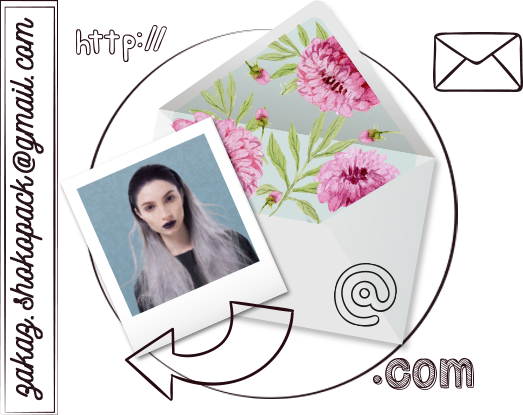
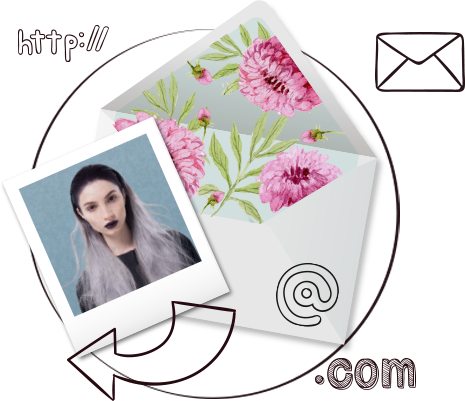
push Sale section

diff --git a/styles/_common.sass b/styles/_common.sass
@@ -84,7 +84,7 @@ body
 
 //Banner
 .content-block-1
-  background: url('../images/background_banner.jpg') no-repeat
+  background: url('../images/background_banner.jpg') no-repeat center
   background-size: cover
   padding-bottom: 64px
   +clearfix
@@ -196,7 +196,7 @@ body
 .content-block-2::before
   content: ''
   position: absolute
-  background: url(../images/advantages_before.png) no-repeat
+  background: url(../images/advantages_before.png) no-repeat center
   height: 64px
   width: 100%
   top: -64px
@@ -229,14 +229,14 @@ body
   &:before
     content: ''
     position: absolute
-    background: url(../images/shares_before.png) no-repeat
+    background: url(../images/shares_before.png) no-repeat center
     height: 40px
     width: 100%
     top: -40px
   &:after
     content: ''
     position: absolute
-    background: url(../images/shares_after.png) no-repeat
+    background: url(../images/shares_after.png) no-repeat center
     height: 83px
     width: 100%
   .main-title
@@ -344,6 +344,55 @@ body
   width: 380px
   margin: 0 auto
 //End How we do
+
+//Sale
+.content-block-5
+  background: #ff727c
+  position: relative
+  margin: 47px 0 100px
+  &::before
+    content: ''
+    position: absolute
+    background: url(../images/order_before.png) no-repeat center
+    height: 47px
+    width: 100%
+    top: -47px
+  &::after
+    content: ''
+    position: absolute
+    background: url(../images/order_after.png) no-repeat center
+    height: 100px
+    width: 100%
+    bottom: -100px
+.sale-block
+  flex: 1
+.sale-block-image
+  height: 420px
+  +flexbox
+  justify-content: center
+  align-items: flex-end
+  margin-bottom: 20px
+  position: relative
+  .sale-block-link_mail
+    display: block
+    text-align: center
+    width: 415px
+    height: 58px
+    background: url('../images/order_mail.png') no-repeat
+    transform: rotate(-90deg)
+    font-size: 36px
+    color: #261418
+    font-family: $font-nickainley
+    position: absolute
+    left: -175px
+    top: 200px
+.sale-block-text
+  text-align: center
+  font-size: 42px
+  color: #fff
+  width: 370px
+  margin: 0 auto
+//End Sale
 
 //Review
 .content-block-7

diff --git a/index.html b/index.html
@@ -166,7 +166,36 @@
     <!-- Section sale -->
     <section class="content-block content-block-5">
         <div class="main">
-
+            <p class="main-title">Как происходит заказ?</p>
+            <div class="flex-wrap">
+                <div class="sale-block">
+                    <div class="sale-block-image"><img src="images/order_img1.png" alt=""></div>
+                    <p class="sale-block-text">1. Подать заявку</p>
+                </div>
+                <div class="sale-block">
+                    <div class="sale-block-image"><img src="images/order_img2.png" alt=""></div>
+                    <p class="sale-block-text">2. Обсудить детали заказа с менеджером</p>
+                </div>
+            </div>
+            <div class="flex-wrap">
+                <div class="sale-block">
+                    <div class="sale-block-image">
+                        <img src="images/order_img3.png" alt="">
+                        <a href="mailto:zakaz.shokopack@gmail.com" class="sale-block-link_mail">zakaz.shokopack@gmail.com</a>
+                    </div>
+                    <p class="sale-block-text">3. Оправить фото на&nbsp;E.MAIL</p>
+                </div>
+                <div class="sale-block">
+                    <div class="sale-block-image"><img src="images/order_img4.png" alt=""></div>
+                    <p class="sale-block-text">4. получить заказ </p>
+                </div>
+            </div>
+            <div class="flex-wrap">
+                <div class="sale-block">
+                    <div class="sale-block-image"><img src="images/order_img5.png" alt=""></div>
+                    <p class="sale-block-text">5. Вручить подарок</p>
+                </div>
+            </div>
         </div>
     </section>
     <!-- End section sale -->
